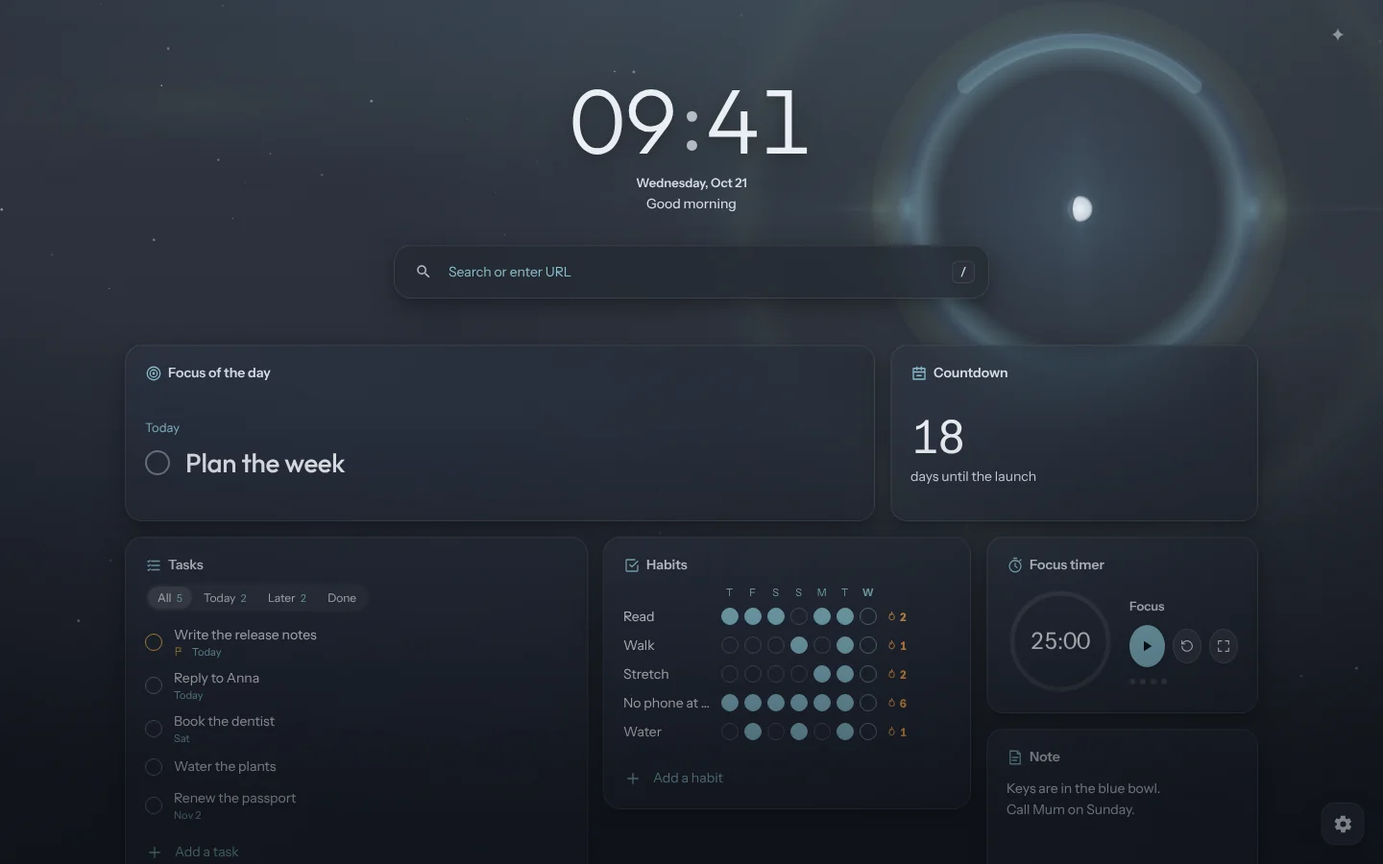
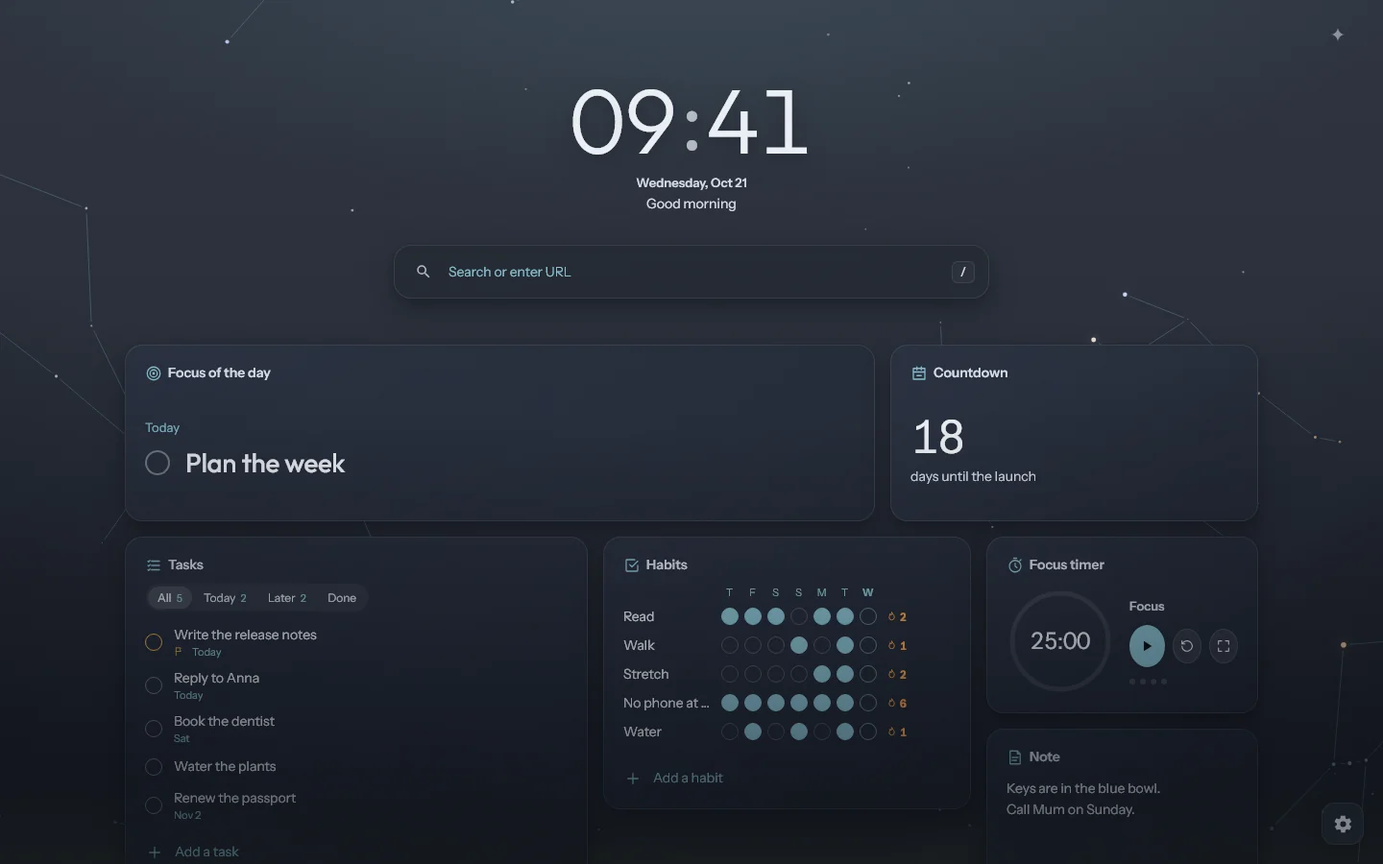
2.5.3: changelog, readme, privacy and docs

Changed region(s): [[0.625, 0.0311, 0.9375, 0.4044], [0.75, 0.1867, 0.8125, 0.3111], [0.6562, 0.3422, 0.75, 0.4044]]

diff --git a/PRIVACY.md b/PRIVACY.md
@@ -32,11 +32,12 @@ Everything is saved on your device. Settings and bookmarks use Chrome's extensio
 | Custom CSS | `chrome.storage.local` / `localStorage` | Stylesheets you added | No |
 | One page fit sizes | `localStorage` | With One page fit on, the sizes it last worked out for up to four window sizes, so a new tab opens already fitted. Never in backups, cleared by Reset | No |
 | Your own wallpaper | IndexedDB | The picture or video loop you picked as the background | No |
-| Where the sky is, working hours, saved skies | `chrome.storage.local` / `localStorage` | The place you set for the sky, the hours the Your day sky knows, and the skies you saved | Only to your own browser's sync, if you turn sync on |
+| Where the sky is, saved skies | `chrome.storage.local` / `localStorage` | The place you set for the sky, and the skies you saved | Only to your own browser's sync, if you turn sync on |
 | Keywords | `chrome.storage.local` / `localStorage` | The words you set in Settings → General that take the search box, or `nl` in the address bar, to your own addresses | No |
 | Pages you saved | `chrome.storage.local` | A page saved with the toolbar button or the right-click item waits here until the next new tab puts it on your board, then it is deleted | No |
 | Exchange rates | `localStorage` | The day's rates the search box last asked for (item 10 below), so it answers again without asking. Cleared by Reset | No |
-| What the sky learned | `localStorage` | The weather and the K index last asked for, the horizon of the sky's place, and today's picture of the day with its caption, so a new tab draws at once instead of asking again. Cleared by Reset | No |
+| The review ask | `localStorage` | When this device first opened Nordlys, how many new tabs it has opened, and whether the review card was shown. Never sent | No |
+| Today's pictures | `localStorage` | Today's photographs and pictures of the day with their captions, so a new tab draws at once instead of asking again. Cleared by Reset | No |
 | What dashboard cards hold | `chrome.storage.local` | Your tasks, notes, habits, stashed tabs and focus sessions, and what a card last read: a calendar's events, a feed's items, a Value card's last 48 readings | No |
 | Whether watched sites answer | `localStorage` | For a bookmark set to show whether its site is up: when it was last asked, whether it answered and how fast. Cleared by Reset | No |
 | Lists your folders follow | `localStorage` | When each list a folder follows was last read, so it is read at most once an hour. Cleared by Reset | No |
@@ -48,7 +49,7 @@ Everything is saved on your device. Settings and bookmarks use Chrome's extensio
 
 Sync is off until you turn it on in Settings. Then your setup (folders, bookmarks, profiles, look and layout) is saved in the browser's own sync storage, `storage.sync`, and the browser carries it to your other devices where you're signed in to it: Chrome with your Google account, Edge with your Microsoft account, Firefox with your Mozilla account. Nordlys has no server in between and never sees it. What the browser does with its sync data is covered by that browser's privacy policy.
 
-The place you set for the sky travels with your setup. What was fetched for it (the weather, the K index, the horizon and the pictures) never does. These never go to sync: uploaded or cropped icon images, wallpapers and video loops, custom CSS, folders that follow your browser's bookmarks, recent searches, what you open at which hour, whether watched sites answered, One page fit sizes, and what dashboard cards hold (tasks, notes, habits, stashed tabs). A folder that follows a list at an address does travel with your setup, address and all; each device reads the list itself, and only with leave to reach that site. A deleted bookmark is kept in sync only as the fact that it was deleted, and is dropped from sync 30 days later. Turning sync off stops sending; it doesn't delete what the browser already holds.
+The place you set for the sky travels with your setup. The pictures fetched for the sky never do. These never go to sync: uploaded or cropped icon images, wallpapers and video loops, custom CSS, folders that follow your browser's bookmarks, recent searches, what you open at which hour, whether watched sites answered, One page fit sizes, and what dashboard cards hold (tasks, notes, habits, stashed tabs). A folder that follows a list at an address does travel with your setup, address and all; each device reads the list itself, and only with leave to reach that site. A deleted bookmark is kept in sync only as the fact that it was deleted, and is dropped from sync 30 days later. Turning sync off stops sending; it doesn't delete what the browser already holds.
 
 ---
 
@@ -63,18 +64,14 @@ A new tab with no dashboard cards, under a sky drawn on your computer, makes no 
 5. The dashboard weather card asks Open-Meteo (`geocoding-api.open-meteo.com` and `api.open-meteo.com`) for a city you search for and the forecast of the place you chose, and nothing else. Open-Meteo needs no key or account.
 6. Connected apps (Settings → Dashboard) read your tasks and events from the apps you connect: Todoist, GitHub, and any calendar by its link (Google Calendar, Outlook, iCloud, Proton and others give one). Your browser asks that app for your tasks with your own token, and nothing goes anywhere else. Ticking a task tells that app it is done. The token is kept only on this device: it is not synced and not written into backups. The browser asks for your leave to reach each app's address when you connect it. Disconnecting deletes the token.
 7. **Cards refresh on their own while they are on your dashboard.** You don't have to click anything for these requests: the weather card asks Open-Meteo again when its forecast is more than 30 minutes old; the From your apps card asks the apps you connected when its list is more than 5 minutes old, and every 10 minutes while a tab is open; the Calendar card asks for your calendar links when its events are more than 10 minutes old, and every 15 minutes while a tab is open; the Feeds card asks its feeds every 30 minutes, and 5 minutes after one could not be read; a Value card asks its address as often as you set in it. They do this only while a new tab is open and the card is on the dashboard. Remove the card, or turn the dashboard off, and they stop.
-8. **Skies drawn from the world.** Only while one of them is the sky on screen. Each answer is kept, so a new tab asks again only when it could have changed:
-   - The weather, for Outside now or a sky whose weather is set to "As it is outside": Open-Meteo (`api.open-meteo.com`) is asked for the current weather at the sky's place, at most every 30 minutes.
-   - The aurora, for Space weather or an aurora set to "As seen from here" or "As under the oval": NOAA's Space Weather Prediction Center (`services.swpc.noaa.gov`) is asked for the planetary K index, at most every 30 minutes. Nothing about you or your place is sent.
-   - The real horizon, for Your horizon: Open-Meteo's elevation service (`api.open-meteo.com`) is asked for the height of about 260 points around the sky's place, once for each place.
-   - The sky's place is the city you set under Where the sky is, otherwise the weather card's city, otherwise the main city of your time zone, rounded to a hundredth of a degree (about a kilometre). Nordlys never asks the browser for your location. Searching for a place sends only what you type to Open-Meteo's place search (`geocoding-api.open-meteo.com`), and only the place you choose is kept.
-   - Your day draws today's meetings from your calendar cards, on your device. It sends nothing of its own.
-9. **The picture of the day.** Only while one of the Picture of the day skies is on screen, once a day for each, and again only in another language or 30 minutes after a failed try:
+8. **The sky's place.** The Star map and Meteors show the sky over a place: the city you set under Where the sky is, otherwise the weather card's city, otherwise the main city of your time zone, rounded to a hundredth of a degree (about a kilometre). The sky is worked out on your device, and Nordlys never asks the browser for your location. Searching for a place sends only what you type to Open-Meteo's place search (`geocoding-api.open-meteo.com`), and only the place you choose is kept.
+9. **Photos and the picture of the day.** Only while one of these skies is on screen, once a day for each, and again only in another language, after a shuffle, or 30 minutes after a failed try:
+   - Photos: Wikimedia Commons' search (`commons.wikimedia.org`) is asked for the featured pictures of the subject, at a place in the list made from the date and any shuffle, and at the width your screen needs (1920 or 2560 pixels). The picture comes from `upload.wikimedia.org`.
    - Wikimedia Commons: Wikimedia's feed (`api.wikimedia.org`) is asked for the day's picture with the date and your language, and the picture comes from `upload.wikimedia.org`.
    - Masterpieces: Wikimedia Commons' search (`commons.wikimedia.org`) is asked for one of its featured paintings, by a number made from the date, and the picture comes from `upload.wikimedia.org`.
    - The Met: the Metropolitan Museum's open collection (`collectionapi.metmuseum.org`) is asked for one of its highlighted paintings, by a number made from the date, and the picture comes from `images.metmuseum.org`.
    - The Earth today: NASA's EPIC service (`epic.gsfc.nasa.gov`) is asked for its latest day, and the picture comes from the same server.
-   The browser loads the picture as it loads any picture on the web, so that server sees an ordinary request for it. A rotation (Settings → Background → Change by itself) can land on one of these skies or on a sky drawn from the world; its requests are then the ones above.
+   The browser loads the picture as it loads any picture on the web, so that server sees an ordinary request for it. A rotation (Settings → Background → Change by itself) can land on one of these skies; its requests are then the ones above.
 10. **Exchange rates.** Typing an amount of money to change, such as "100 usd to eur", asks ExchangeRate-API (`open.er-api.com`) for the day's rates against the US dollar, at most once a day. The request carries nothing you typed: not the amount and not the currencies. The rates are kept for the day, and the answer names where they came from. Units and the time in other places are worked out on your device.
 11. **Settings from an address.** Only when you give an address under Settings → Backup → Settings as text and press Read it. The browser asks for your leave to reach that one site, and the file is read once, without cookies or a referrer. It is shown to you and changes nothing until you apply it.
 12. **Feeds and values.** The Feeds card reads the feeds and sites you list in it: an RSS or Atom feed as it is, a site's page once to find the feed it names, and Hacker News, Reddit and YouTube addresses as their own feeds. The Value card reads the address you give it as JSON and shows one number from it. Both read without cookies or a referrer, and the browser asks for your leave to reach each site when you save the card.
@@ -85,7 +82,7 @@ A new tab with no dashboard cards, under a sky drawn on your computer, makes no 
 
 The time-of-day light uses the date and your time zone on your device. The night light's "From sunset to sunrise" works out where the sun is from the date and the sky's place, on your device too. Neither asks for your location or sends anything.
 
-Nordlys never sends your bookmark list or browsing activity anywhere. At install it asks for access to no site at all. Access to a site is asked for when you set it up yourself: Todoist, GitHub, the address of a calendar link, a feed or site on the Feeds card, a Value card's address, a list a folder follows, or the one address you read settings from. Checking your bookmarks asks for the sites on your board and hands that leave back when it is done. That is why the list of optional sites includes any `https` address: a calendar, a feed or a list can be on any server. Nordlys asks only for the sites you name, and never on its own. Iconify, Open-Meteo, NOAA, Wikimedia, the Met, NASA EPIC, ExchangeRate-API and `images.weserv.nl` allow browser requests (CORS), so they need no permission.
+Nordlys never sends your bookmark list or browsing activity anywhere. At install it asks for access to no site at all. Access to a site is asked for when you set it up yourself: Todoist, GitHub, the address of a calendar link, a feed or site on the Feeds card, a Value card's address, a list a folder follows, or the one address you read settings from. Checking your bookmarks asks for the sites on your board and hands that leave back when it is done. That is why the list of optional sites includes any `https` address: a calendar, a feed or a list can be on any server. Nordlys asks only for the sites you name, and never on its own. Iconify, Open-Meteo, Wikimedia, the Met, NASA EPIC, ExchangeRate-API and `images.weserv.nl` allow browser requests (CORS), so they need no permission.
 
 ---
 

diff --git a/CHANGELOG.md b/CHANGELOG.md
@@ -10,13 +10,15 @@ Chrome Web Store's rule that they only ever go up.
 
 ### Added
 
-- Skies come in kinds: Nordlys (the nine made for it), Weather, Horizon, Picture of the day, and Yours (a picture, a video loop or a colour). Settings → Background shows one kind at a time.
-- Weather and Horizon skies are put together from layers you can change one by one: the light (the sun, the moon, the season, or your working day), the sky (stars, the moon's phase, the planets, the aurora, meteors), the weather (clouds, rain, snow, fog, wind, or as it is outside now), the horizon (mountains, sea, a city, forest, steppe, desert, a lighthouse, or the real land around the sky's place) and a style (lit, poster, engraving, pixel).
+- Skies come in kinds: Nordlys (the ones made for it), Photos, Picture of the day, and Yours (a picture, a video loop or a colour). Settings → Background shows one kind at a time.
+- Photos: nature, weather, the horizon, space, other worlds, machines or cities, a new photograph each day from the ones the Wikimedia Commons community chose as its finest. It comes in the colours of your mood, or in its own.
+- Black hole, a new Nordlys sky, rising from the foot of the page and drawn from the paths light really takes near one: its shadow, the far side of the disk bent up over it and under it, a disk of hot gas that turns faster towards the middle and burns brighter and bluer on the side coming towards you, and the stars behind it bent into arcs. The graphics card works it out for every pixel.
+- Time of day, a colour mood that follows the sun where you are: deep blue at night, rose and lilac at dawn, gold at sunrise, a clear blue by day, amber and pink at sunset and violet at dusk. It replaces the "Follow the time of day" switch, and if you had that on, you get the mood.
+- Six more colour moods: Twilight, Patina, Tundra, Gilt, Sepia and Mars.
 - Picture of the day: the day's picture from Wikimedia Commons, one of its featured paintings, a highlight of the Met's collection, or the whole Earth as NASA's EPIC camera saw it, with its caption.
-- Shuffle changes the layers you haven't locked. A sky you like can be saved (up to 12) and worn again, and the sky can change by itself on every new tab, every hour or every day, from all skies or only your saved ones.
+- Shuffle draws the sky again, or brings another photograph of the same subject, with Undo. A sky you like can be saved (up to 12) and worn again, and the sky can change by itself on every new tab, every hour or every day: the same sky shuffled, skies of the same kind, all skies, or only your saved ones.
 - The accent colour can come from the picture on screen.
-- Night light: from sunset to sunrise, or between hours you set, the page turns red and quiet.
-- The sky knows your day: clouds gather as today's calendar fills, the lighthouse is lit while a focus runs, and snow lies on the peaks in winter.
+- Night light: from sunset to sunrise, or all the time, the page turns red and quiet.
 - Page layouts besides the board: Columns (each folder a list), Dock (one shelf of icons), Today (the dashboard beside your folders), Prompt (only the search box) and Poster (a large clock). Settings → Appearance → Page, or `> page dock` in the search box.
 - The search box answers some things itself: units ("5 km in miles"), the time elsewhere ("time in Tokyo") and money ("100 usd to eur", at the day's rates from ExchangeRate-API, asked for only when you type an amount).
 - It can also find your open tabs, the browser's bookmarks, pages you visited and places in Settings. Each is turned on in Settings → General, and the browser asks for leave the first time.
@@ -32,12 +34,17 @@ Chrome Web Store's rule that they only ever go up.
 - A bookmark can show whether its site is up: right-click it and choose Show if it is up. A dot on the tile says whether it answers and how fast.
 - Settings → Bookmarks → Check the bookmarks finds the bookmarks on the board more than once and the pages that are gone, and each can be removed with a way back.
 - Settings → Bookmarks → Follow a list at an address: a list of links your team keeps (a Nordlys backup, a bookmarks file a browser exported, or plain text with an address on each line) comes onto the board as folders that follow it, read again every hour.
+- After two weeks, Nordlys asks once, in a corner, for a review in the store you got it from, and never again whatever you answer. Settings → Support keeps the link.
 - Sites kept shut while focusing: list them in the Focus timer card's settings. While a focus runs, a tab that goes to one waits on a quiet page and goes on when the focus ends or you pause it.
 
 ### Changed
 
 - Profiles are called Spaces, in all eight languages. Each still has its own folders, look, search and keywords.
 - Drift is now called Contour, Horizon is Fjord, and the Nordlys sky is Aurora. What you chose carries over.
+- The Black hole takes the Midnight sun's place. If you were using Midnight sun, or Nacre before it, you get the Black hole, and so does a shared look or a synced space that names either.
+- Halo is retired, and its "Follow the real moon" switch with it. If you were using Halo, you get the Star map, and so does a shared look or a synced space that names it.
+- The other colour moods no longer change with the time of day: a mood stays the colours you chose.
+- Star map fills the page: the horizon now runs along its foot.
 - A new tab reads less before it draws: English and the language in use instead of all eight, each sky's painting only when that sky is shown, and the parts few people use (importing, feeds, the checks, the conversions) only when they are used.
 - A bookmarks file whose links are not in folders comes over as one folder named after the file.
 

diff --git a/docs/store-listing.md b/docs/store-listing.md
@@ -42,7 +42,7 @@ Folders and bookmarks
 • Save the page you're on from the toolbar or the right-click menu. Find the bookmarks that are gone or there twice.
 
 Skies and pages
-• The northern lights, the real stars over you tonight, skies you put together from weather and a horizon, or a picture of the day. Your own picture or video too.
+• The northern lights, the real stars over you tonight, a black hole, photographs in your mood's colours, or a picture of the day. Your own picture or video too.
 • 21 colour themes. The page can be a board, columns, a dock or only the search box.
 
 Search
@@ -57,7 +57,7 @@ Before every update, a copy of your whole setup is kept in Settings → Backup.
 In English, Russian, Spanish, German, French, Japanese, Chinese and Turkish. Open source (MIT): https://github.com/sa1ntsinner/nordlys-tab
 ```
 
-The description is 1499 characters, under the 1,500 the store shows
+The description is 1498 characters, under the 1,500 the store shows
 before "More". Privacy and the price come first: they are why people leave
 other new-tab extensions.
 
@@ -251,9 +251,8 @@ No login or sample files are needed.
 4. External services
 Nordlys has no server of its own, and no analytics or ads. It makes a request only when the user uses a feature that needs one:
 - Search: the search engine the user picks in Settings > General.
-- Weather card, and skies set to the weather outside: Open-Meteo (api.open-meteo.com and geocoding-api.open-meteo.com), for the place the user chooses. No key or account.
-- A sky showing the aurora as seen from here: NOAA's Space Weather Prediction Center (services.swpc.noaa.gov). Nothing about the user is sent.
-- Picture of the day skies, only while one is shown: Wikimedia Commons (api.wikimedia.org, commons.wikimedia.org, upload.wikimedia.org), the Metropolitan Museum (collectionapi.metmuseum.org, images.metmuseum.org) or NASA EPIC (epic.gsfc.nasa.gov).
+- Weather card, and the place search for the sky: Open-Meteo (api.open-meteo.com and geocoding-api.open-meteo.com), for the place the user chooses. No key or account.
+- Photos and picture of the day skies, only while one is shown: Wikimedia Commons (api.wikimedia.org, commons.wikimedia.org, upload.wikimedia.org), the Metropolitan Museum (collectionapi.metmuseum.org, images.metmuseum.org) or NASA EPIC (epic.gsfc.nasa.gov).
 - Money typed in the search box ("100 usd to eur"): ExchangeRate-API (open.er-api.com), at most once a day, carrying nothing the user typed.
 - Icon search: Iconify's public API (api.iconify.design), only when the user searches for an icon; images.weserv.nl, only to load an icon image address the user pasted.
 - Addresses the user gives: feeds, a value from a JSON address, a list of links a folder follows, settings read from an address, and the user's own bookmarks when they ask to check them or to see whether a site is up.

diff --git a/README.md b/README.md
@@ -24,7 +24,7 @@ I wanted a new tab page with my bookmarks and something nice to look at, so I ma
 
 - Bookmarks in folders. Drag the folders around, set tile size and spacing, undo a change. Save the page you're on from the toolbar button or the right-click menu.
 - The page as a board, columns, a dock, the dashboard beside your folders, only the search box, or a large clock.
-- Nine skies drawn live in the browser, skies you put together from weather and a horizon, a picture of the day, or your own picture or looping video. 21 colour themes.
+- Nine skies drawn live in the browser, among them the real stars over you and a black hole, photographs in the colours of your mood, a picture of the day, or your own picture or looping video. 21 colour themes.
 - A search box that uses your browser's engine, finds your sites, open tabs and places in Settings, works out units, times and money, and takes your own keywords and commands after `>`.
 - Brand icons by name, a site's favicon, an image link or a letter.
 - A dashboard if you want one: tasks, a focus timer that can keep sites shut, notes, weather, world clocks, feeds, calendars with a Join button, plus tasks from Todoist and GitHub.
@@ -33,7 +33,7 @@ I wanted a new tab page with my bookmarks and something nice to look at, so I ma
 - English, Russian, Spanish, German, French, Japanese, Chinese and Turkish.
 
 <p align="center">
-  <img src="docs/screenshots/dashboard.webp" alt="The dashboard over the Halo sky: focus of the day, a countdown, tasks, habits, a focus timer and a note.">
+  <img src="docs/screenshots/dashboard.webp" alt="The dashboard over the Star map: focus of the day, a countdown, tasks, habits, a focus timer and a note.">
 </p>
 
 ## Free, and staying free
@@ -48,7 +48,7 @@ To run it from source, clone the repo, open `chrome://extensions`, turn on Devel
 
 ## Privacy
 
-There's no account, no server and no tracking. A new tab without dashboard cards, under a sky drawn on your computer, makes no network request at all. Your setup stays in your browser, and leaves it only through the browser's own sync, if you turn that on. Searches, icon lookups, weather, the picture of the day, feeds and connected apps go online when you use them, each straight to its own service. [PRIVACY.md](PRIVACY.md) lists every request.
+There's no account, no server and no tracking. A new tab without dashboard cards, under a sky drawn on your computer, makes no network request at all. Your setup stays in your browser, and leaves it only through the browser's own sync, if you turn that on. Searches, icon lookups, weather, photos and the picture of the day, feeds and connected apps go online when you use them, each straight to its own service. [PRIVACY.md](PRIVACY.md) lists every request.
 
 ## Development
 

diff --git a/PRODUCT.md b/PRODUCT.md
@@ -15,7 +15,7 @@ Nordlys replaces the browser's new tab page: the person's favourite sites in fol
 
 ## Positioning
 
-- The skies are drawn live in the browser: nine scenes of its own, and Weather and Horizon skies put together from layers. A picture of the day, or the person's own picture or video, when they want one.
+- The skies are drawn live in the browser: nine scenes of its own, among them the real stars over the person and a black hole drawn from the way light bends near one. Photographs in the colours of the mood, a picture of the day, or the person's own picture or video, when they want one.
 - Nothing leaves the device: there is no Nordlys account and nothing is tracked. Sync, when turned on, goes through the browser's own sync.
 - It is free and open source, and one extension covers Chrome, Edge, Firefox and Safari.
 
@@ -29,7 +29,7 @@ Nordlys replaces the browser's new tab page: the person's favourite sites in fol
 What ships in 2.5.3:
 - Favourite sites in folders; move folders, change tile size and spacing, tidy them in one click, undo. Save any page from the toolbar button or the right-click menu, or drop a link onto the board.
 - Page layouts: the board, Columns, Dock, Today (the dashboard beside the folders), Prompt (only the search box) and Poster (a large clock).
-- Skies in kinds: the nine Nordlys skies drawn live, Weather and Horizon skies put together from layers (light, sky, weather, horizon, style), a picture of the day (Wikimedia Commons, the Met, NASA EPIC), or your own picture, looping video or colour. Shuffle with locks, saved skies, a sky that changes by itself, colours from the picture, a night light. 21 colour themes (11 dark, 10 light, including pure black for OLED).
+- Skies in kinds: the nine Nordlys skies drawn live, photographs by subject from Wikimedia Commons' featured pictures in the colours of the mood or their own, a picture of the day (Wikimedia Commons, the Met, NASA EPIC), or your own picture, looping video or colour. Shuffle, saved skies, a sky that changes by itself, colours from the picture, a night light. 21 colour themes (11 dark, 10 light, including pure black for OLED) and eleven colour moods.
 - The search box uses the browser's search engine, finds your sites, open tabs, the browser's bookmarks and history and places in Settings, answers units, times and money, takes your own keywords (also `nl` in the address bar), adds a task after `+`, takes commands after `>`, and offers what you usually open at this hour.
 - Brand icons by name (Iconify's Simple Icons), a site's favicon, an image link or a letter.
 - Spaces such as Work and Home, each with its own folders, look and keywords, opening by themselves at set hours if wanted; optional sync through the browser's own sync.

diff --git a/docs/design-system.md b/docs/design-system.md
@@ -204,16 +204,16 @@ every other improvement.
 
 ## Backgrounds
 
-Nine authored skies — Nordlys, Polaris, Halo, Star map, Meteors, Silk,
-Midnight sun, Contour and Fjord — the user's own image or video, and a flat
-colour. Each sky is a different *kind* of picture: curtains, star trails
-turning round the pole, an optical display around a moon, a chart of the stars
-overhead, shooting stars on a still night, threads walked through a vector
-field, the sun over a calm sea, a survey map of hills and hollows, a low
-horizon. Frost, rime grown in from the edges, was retired, and later Pillars,
-Nacre and Baikal; a stored one becomes the nearest sky in kind that is left:
-Pillars, a night sky, Meteors; Nacre, cloud lit by a low sun, the Midnight
-sun; Baikal, the stillest, and Frost the Star map.
+Eight authored skies — Nordlys, Polaris, Star map, Meteors, Silk, Black
+hole, Contour and Fjord — the user's own image or video, and a flat colour.
+Each sky is a different *kind* of picture: curtains, star trails turning round
+the pole, a chart of the stars overhead, shooting stars on a still night,
+threads walked through a vector field, a black hole and its disk worked out on
+the GPU, a survey map of hills and hollows, a low horizon. Frost, rime grown in
+from the edges, was retired, and later Pillars, Nacre, Baikal, the Midnight
+sun and Halo; a stored one becomes the nearest sky in kind that is left:
+Pillars, a night sky, Meteors; Nacre and the Midnight sun the Black hole;
+Baikal, the stillest, Frost and Halo, a moonlit night, the Star map.
 Contour was once nine sine waves at an eighth of an opacity —
 a paler Silk that vanished on dark themes — and became a map: closed contour
 lines traced from a seeded, slowly wandering terrain (marching squares), a
